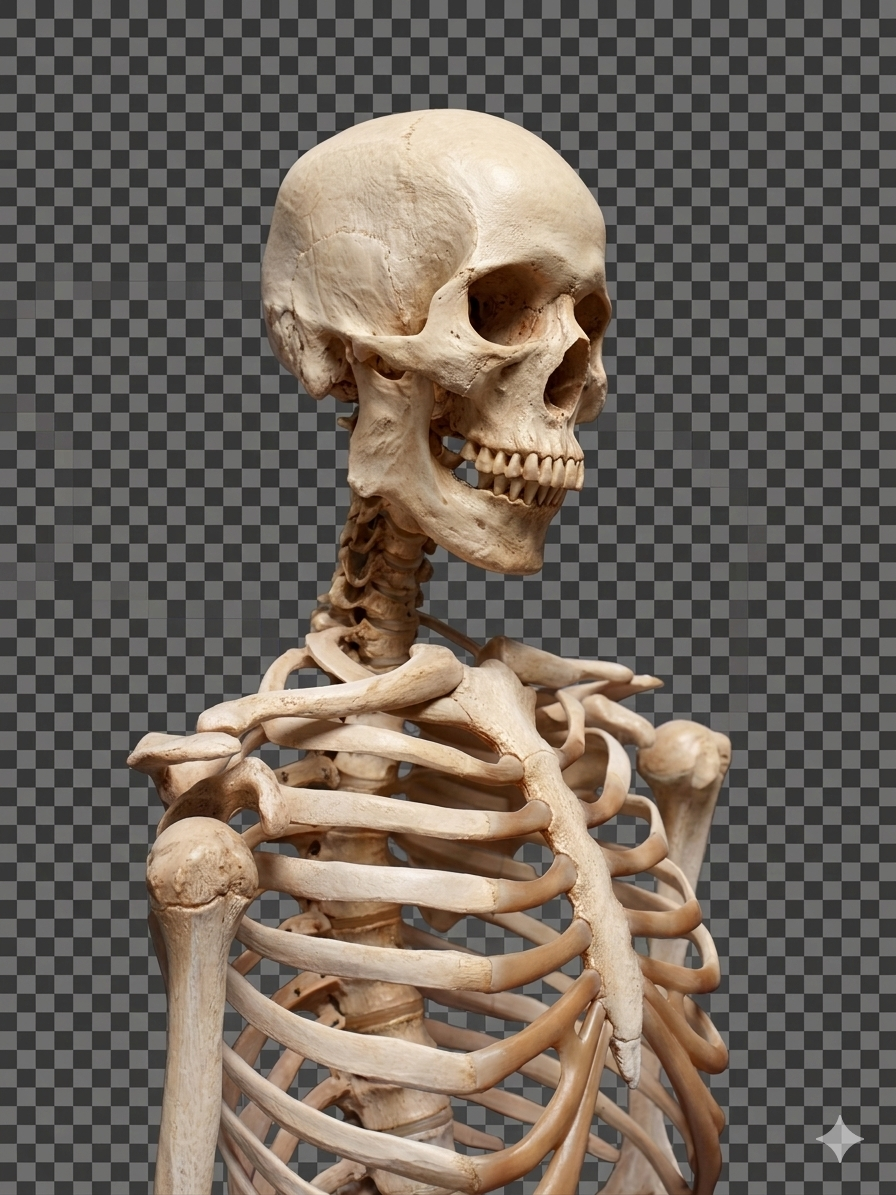
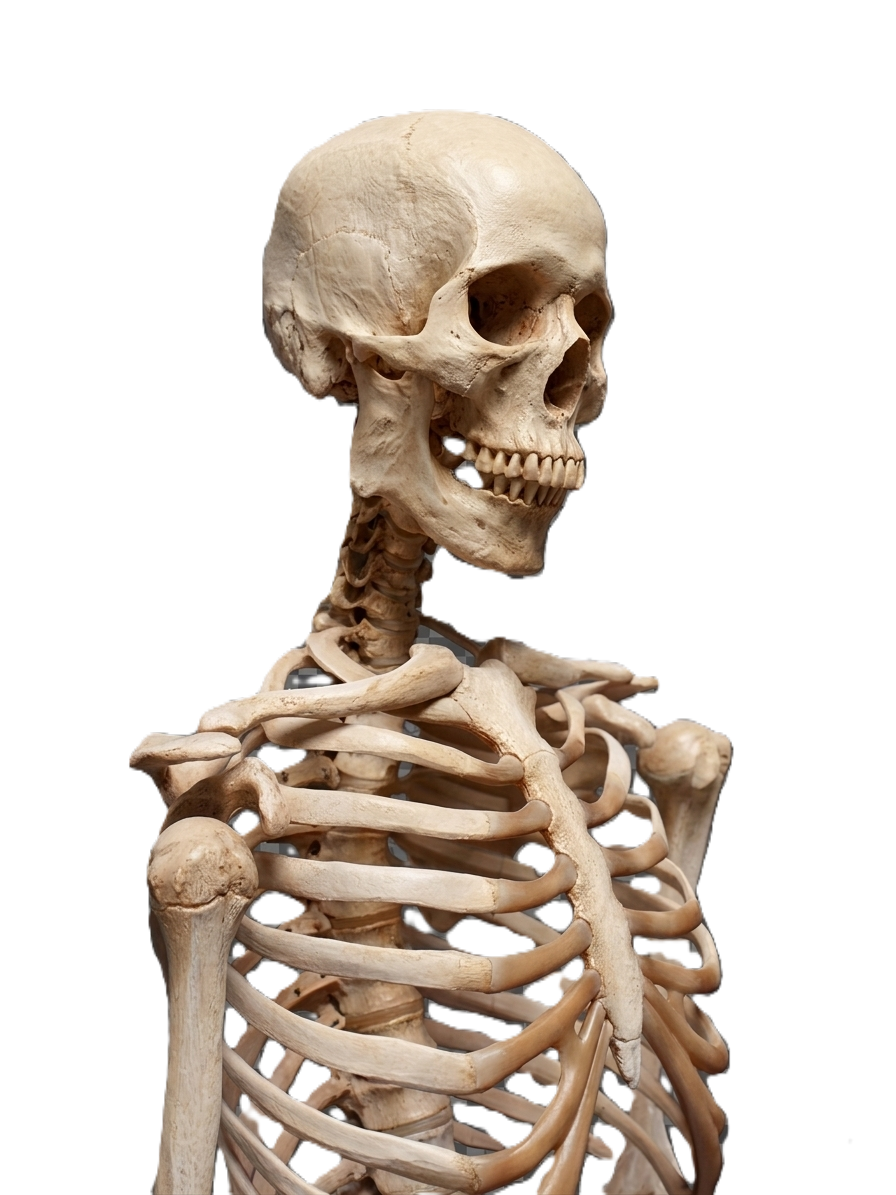
Improve UI Home Screen

diff --git a/lib/app/app.dart b/lib/app/app.dart
@@ -1,4 +1,5 @@
 import 'package:flutter/material.dart';
+import 'package:flutter/services.dart';
 
 import '../features/home/presentation/pages/home_page.dart';
 
@@ -7,9 +8,22 @@ class MyApp extends StatelessWidget {
 
   @override
   Widget build(BuildContext context) {
-    return const MaterialApp(
-      debugShowCheckedModeBanner: false,
-      home: HomePage(),
+    return AnnotatedRegion<SystemUiOverlayStyle>(
+      value: const SystemUiOverlayStyle(
+        //* makes status bar transparent
+        statusBarColor: Colors.transparent,
+
+        //* white icons (clock, battery, signal)
+        statusBarIconBrightness: Brightness.light,
+
+        //* iOS support
+        statusBarBrightness: Brightness.dark,
+      ),
+
+      child: const MaterialApp(
+        debugShowCheckedModeBanner: false,
+        home: HomePage(),
+      ),
     );
   }
 }

diff --git a/lib/features/home/presentation/widgets/info_card.dart b/lib/features/home/presentation/widgets/info_card.dart
@@ -6,18 +6,17 @@ class InfoCard extends StatelessWidget {
   @override
   Widget build(BuildContext context) {
     return Positioned(
-      bottom: 210,
+      bottom: 180,
       left: 20,
       right: 20,
       child: GlassContainer(
-        padding: const EdgeInsets.all(26),
+        padding: const EdgeInsets.all(15),
         borderRadius: 28,
         child: Column(
           mainAxisSize: MainAxisSize.min,
           children: [
             Text("Paham", style: TextStyle(color: Colors.white, fontSize: 28)),
 
-            SizedBox(height: 4),
 
             Text(
               "Anatomi",
@@ -28,7 +27,6 @@ class InfoCard extends StatelessWidget {
               ),
             ),
 
-            SizedBox(height: 16),
 
             Text(
               "Arahkan kamera Anda dan temukan dunia anatomi manusia secara interaktif.",

diff --git a/lib/features/home/presentation/widgets/skeleton_view.dart b/lib/features/home/presentation/widgets/skeleton_view.dart
@@ -5,12 +5,16 @@ class SkeletonView extends StatelessWidget {
 
   @override
   Widget build(BuildContext context) {
-    return Align(
-      alignment: Alignment.center,
-      child: Image.asset(
-        "assets/images/skeleton.png",
-        height: 420,
-        fit: BoxFit.contain,
+    return Positioned(
+      bottom: 180,
+      left: 0,
+      right: 0,
+      child: Center(
+        child: Image.asset(
+          "assets/images/skeleton.png",
+          height: MediaQuery.of(context).size.height * 0.63,
+          fit: BoxFit.contain,
+        ),
       ),
     );
   }

diff --git a/lib/features/home/presentation/pages/home_page.dart b/lib/features/home/presentation/pages/home_page.dart
@@ -20,6 +20,7 @@ class HomePage extends StatelessWidget {
               Color(0xFF1E3A5F),
               Color(0xFF0B1622),
             ],
+            stops: [0.0, 1.0],
           ),
         ),
         child: const Stack(
